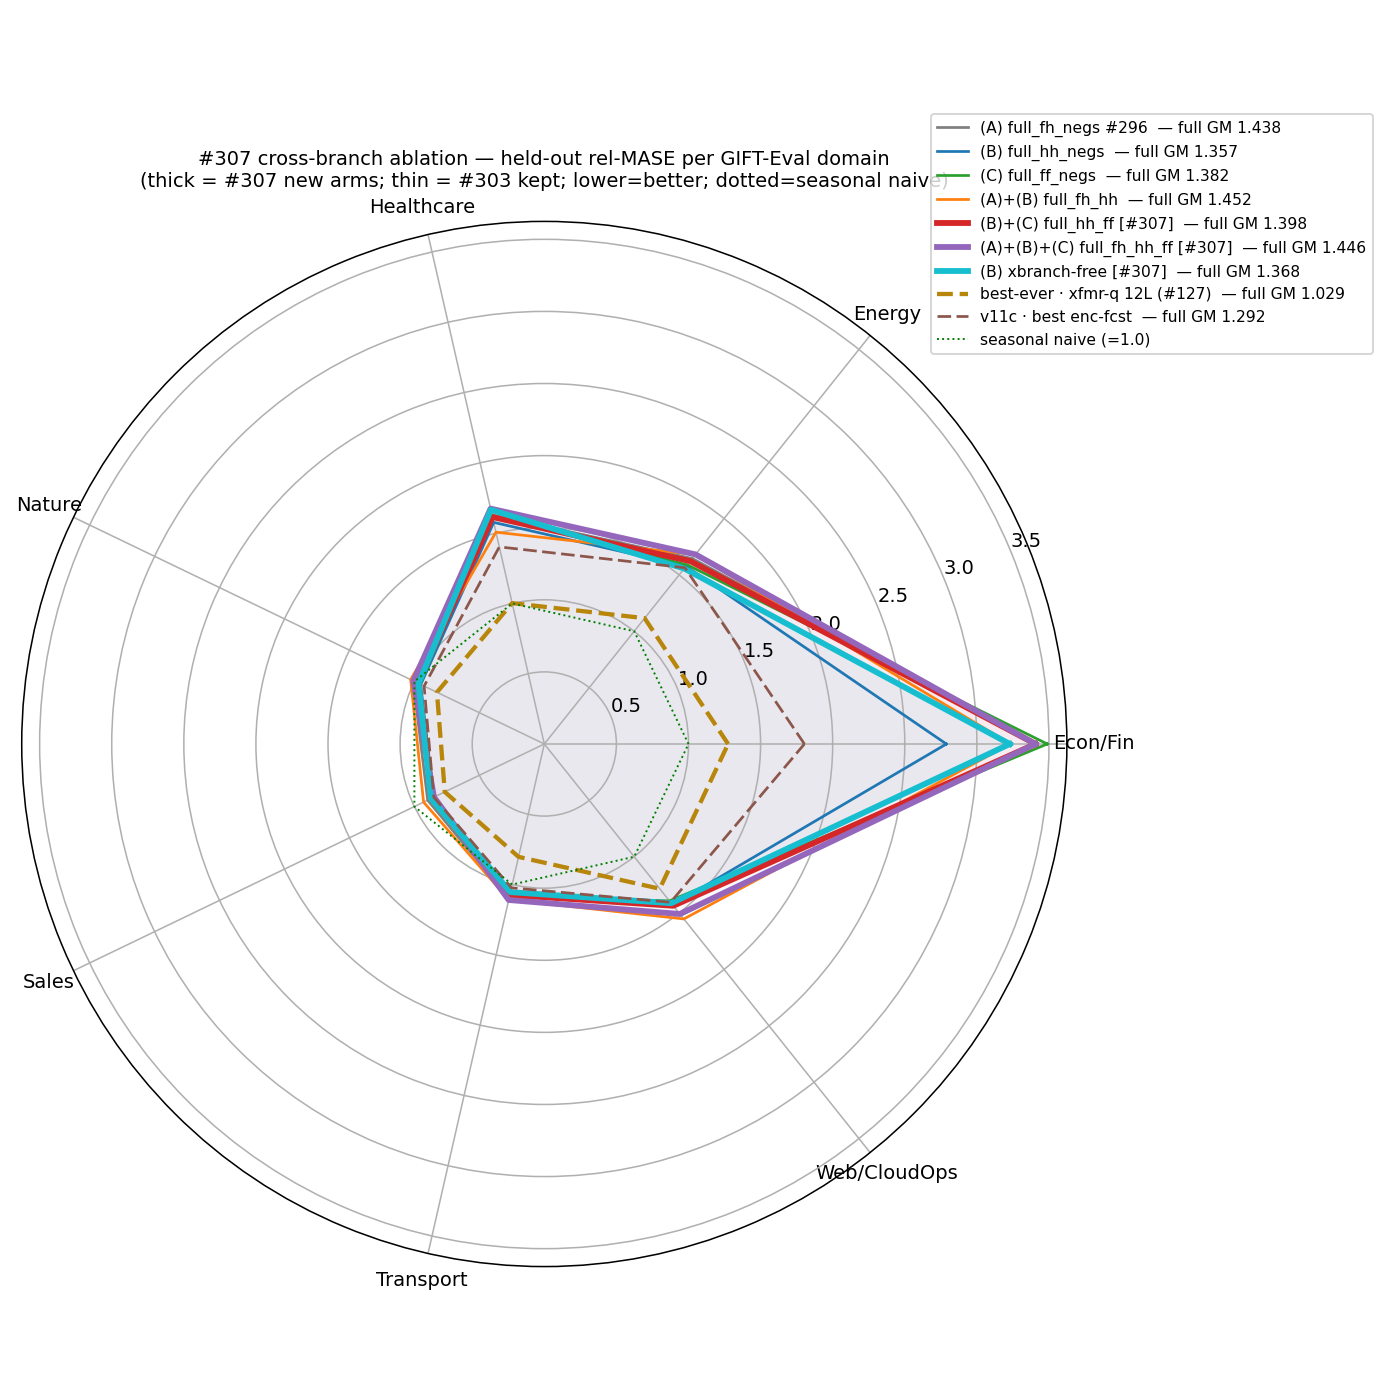
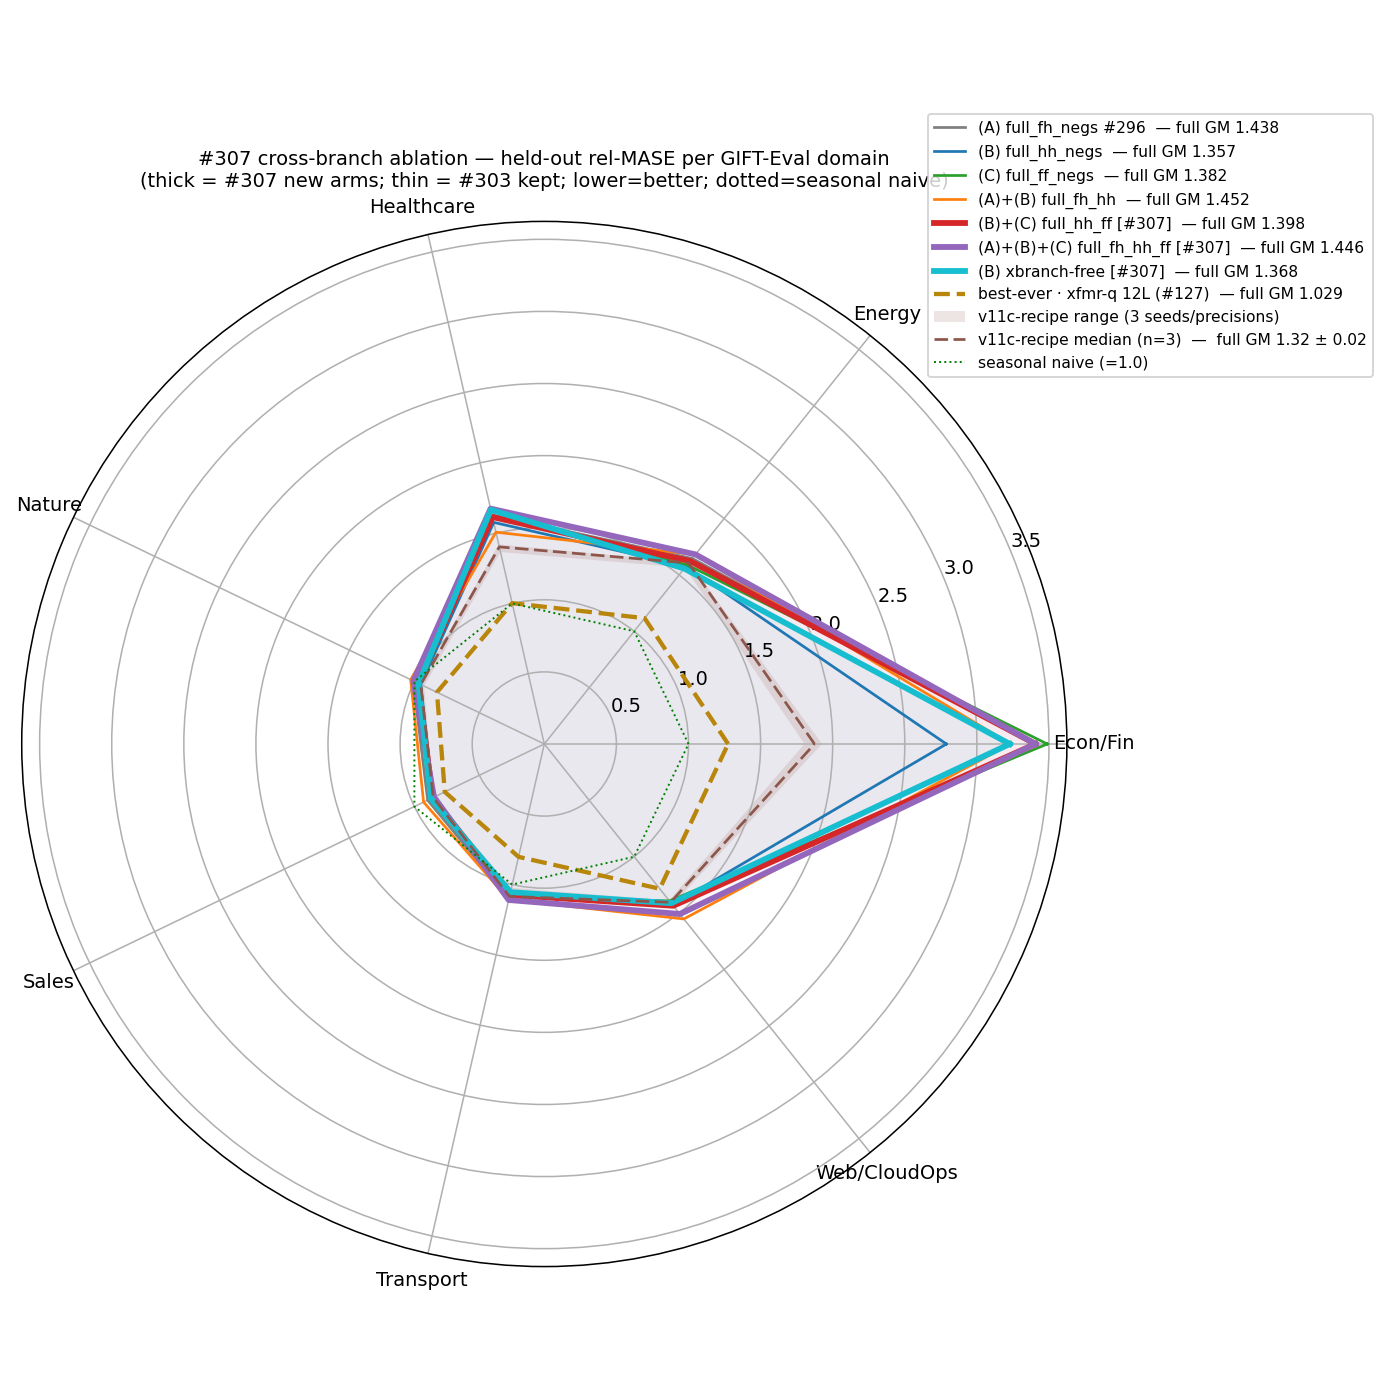
exp(#307): radar — v11c-recipe median + min/max band (n=3, 1.32 ± 0.02)
Replace single v11c ring with median line + translucent min/max band
across 3 same-recipe (dk0.9) backbones:
  - v11c             1.292 (pure-fp32, seed A, 50k)
  - v20R             1.323 (fp32-warmup→fp16, fresh seed, 50k)
  - dk09fp32x150k    1.333 (pure-fp32, seed 20260516, 150k)
(dk0.9@50k 1.659 excluded — flagged BAD transient per OVERNIGHT_PLAN.)

mean full GM = 1.316 → label '1.32 ± 0.02' (half-range = 0.020).
Legend gets a separate 'v11c-recipe range (3 seeds/precisions)' entry.
RESULTS.md caption updated to match.

Side fix: downstream_orchestrator.sh bash unbound-var bug
(same-statement local var expansion); split into separate local lines.

diff --git a/experiments/2026-05-19_crossed_loss_xbranch_ablation/scripts/plot_results.py b/experiments/2026-05-19_crossed_loss_xbranch_ablation/scripts/plot_results.py
@@ -50,9 +50,15 @@ REFS = [
      "/home/jupyter/contrastive-forecasting/experiments/"
      "2026-05-05_exp_qhead_improvements/results/"
      "R9_E13_xfmr12L_quant_moirai_cosine_e_then_f_60k_full"),
-    ("v11c · best enc-fcst", "#8c564b", (0, (5, 2)), 1.4,
-     "/home/jupyter/contrastive-forecasting/experiments/"
-     "2026-05-11_exp_encoder_forecaster/results/gift_eval_full_v11c"),
+]
+# v11c-recipe: 3 same-recipe (dk0.9) backbones — median ± min/max band
+V11C_RECIPE = [
+    "/home/jupyter/contrastive-forecasting/experiments/"
+    "2026-05-11_exp_encoder_forecaster/results/gift_eval_full_v11c",
+    "/home/jupyter/contrastive-forecasting/experiments/"
+    "2026-05-11_exp_encoder_forecaster/results/gift_eval_full_v20R",
+    "/home/jupyter/contrastive-forecasting/experiments/"
+    "2026-05-11_exp_encoder_forecaster/results/gift_eval_full_dk09fp32x150k",
 ]
 
 
@@ -105,8 +111,20 @@ for lab, col, ls, lw, d in REFS:
     if g:
         radar.append((lab, col, g, agg_gm(f"{d}/summary.txt"), ls, lw, False))
 
+# v11c-recipe: per-domain median + min/max band across 3 same-recipe runs
+v11c_gms = []  # per-dir per-domain GM dicts
+v11c_full = []  # full agg GMs
+for d in V11C_RECIPE:
+    g = rel_by_domain(f"{d}/summary.txt", dom_map(f"{d}/all_results.csv"))
+    if g:
+        v11c_gms.append(g)
+        v11c_full.append(agg_gm(f"{d}/summary.txt"))
+
 if radar:
-    doms = sorted(set().union(*[set(g) for _, _, g, _, _, _, _ in radar]))
+    doms_src = [set(g) for _, _, g, _, _, _, _ in radar]
+    if v11c_gms:
+        doms_src += [set(g) for g in v11c_gms]
+    doms = sorted(set().union(*doms_src))
     ang = np.linspace(0, 2 * np.pi, len(doms), endpoint=False).tolist()
     ang += ang[:1]
     fig = plt.figure(figsize=(10, 10))
@@ -117,6 +135,27 @@ if radar:
                 label=lab + (f"  — full GM {gm:.3f}" if gm else ""))
         if new:
             ax.fill(ang, v, alpha=.05, color=col)
+    if v11c_gms:
+        v11c_col = "#8c564b"
+        v11c_ls = (0, (5, 2))
+        # stack per-domain values: shape (n_runs, n_doms+1) with wrap
+        stacked = np.array([
+            [g.get(d, np.nan) for d in doms] + [g.get(doms[0], np.nan)]
+            for g in v11c_gms
+        ])
+        med = np.nanmedian(stacked, axis=0)
+        lo = np.nanmin(stacked, axis=0)
+        hi = np.nanmax(stacked, axis=0)
+        mean_full = float(np.mean(v11c_full))
+        half_range = (max(v11c_full) - min(v11c_full)) / 2.0
+        # closed band via ax.fill with concatenated outer (hi) + reversed inner (lo)
+        ax.fill(np.concatenate([ang, ang[::-1]]),
+                np.concatenate([lo, hi[::-1]]),
+                color=v11c_col, alpha=.15, linewidth=0,
+                label="v11c-recipe range (3 seeds/precisions)")
+        ax.plot(ang, med, lw=1.4, ls=v11c_ls, color=v11c_col,
+                label=f"v11c-recipe median (n=3)  —  full GM "
+                      f"{mean_full:.2f} ± {half_range:.2f}")
     ax.plot(ang, [1.0] * len(ang), lw=1.0, ls=":", color="green",
             label="seasonal naive (=1.0)")
     ax.set_xticks(ang[:-1]); ax.set_xticklabels(doms, fontsize=10)
@@ -125,8 +164,13 @@ if radar:
                  "kept; lower=better; dotted=seasonal naive)", fontsize=10)
     ax.legend(loc="upper right", bbox_to_anchor=(1.30, 1.11), fontsize=8)
     fig.tight_layout(); fig.savefig(f"{OUT}/perdomain_star.png", dpi=140)
-    print("radar:", [(l, round(gm, 4) if gm else None)
-                     for l, _, _, gm, _, _, _ in radar])
+    out = [(l, round(gm, 4) if gm else None)
+           for l, _, _, gm, _, _, _ in radar]
+    if v11c_gms:
+        out.append((f"v11c-recipe median (n={len(v11c_gms)})",
+                    round(mean_full, 4),
+                    [round(x, 4) for x in v11c_full]))
+    print("radar:", out)
 else:
     print("radar SKIPPED (no full-eval summaries yet)")
 

diff --git a/experiments/2026-05-19_crossed_loss_xbranch_ablation/RESULTS.md b/experiments/2026-05-19_crossed_loss_xbranch_ablation/RESULTS.md
@@ -11,7 +11,7 @@
 The single winner of this family is still **(B) at 1.357** (#303). Across all seven arms in this recipe, no value of `--loss-shape` reaches v11c 1.292; the residual gap is the backbone-of-record, not the crossed-negative choice — fully consistent with #303's closing observation. **Practically:** the cleaner "no-cross-branch-negative" form (B-xbfree) is **as good as** the full-cross-batch B and is structurally simpler, so the f↔h negatives can be dropped entirely without measurable cost.
 
 ![Per-domain relative MASE — 4 #303 arms + 3 #307 arms + refs](plots/perdomain_star.png)
-*Radar chart, one spoke per GIFT-Eval domain; distance from centre = GM relative MASE, lower = better; dotted green = seasonal naive (1.0). Thick lines = #307 new arms; thin = #303 kept arms; **gold dashed** = best-ever (R9_E13, #127, full GM 1.029); **purple dashed** = v11c (best enc-fcst, full GM 1.292). **(B) xbranch-free** (cyan) tracks **(B) full_hh** (blue) within ≈1 % on every domain — visual confirmation that the f↔h family is inert. **(B)+(C)** (red) and **(A)+(B)+(C)** (purple) sit at or above the (A+B) cluster; (A+B+C) clusters with (A+B) on Econ/Fin (≈3.4) where A's harm is largest.*
+*Radar chart, one spoke per GIFT-Eval domain; distance from centre = GM relative MASE, lower = better; dotted green = seasonal naive (1.0). Thick lines = #307 new arms; thin = #303 kept arms; **gold dashed** = best-ever (R9_E13, #127, full GM 1.029); **purple dashed** = v11c-recipe median, band = min/max across n=3 (1.292 / 1.323 / 1.333). **(B) xbranch-free** (cyan) tracks **(B) full_hh** (blue) within ≈1 % on every domain — visual confirmation that the f↔h family is inert. **(B)+(C)** (red) and **(A)+(B)+(C)** (purple) sit at or above the (A+B) cluster; (A+B+C) clusters with (A+B) on Econ/Fin (≈3.4) where A's harm is largest.*
 
 **Held-out GM-Relative MASE** (official GIFT-Eval; standard 2L causal q-head trained 30k on each backbone; 1.0 = seasonal naive, lower better):
 
